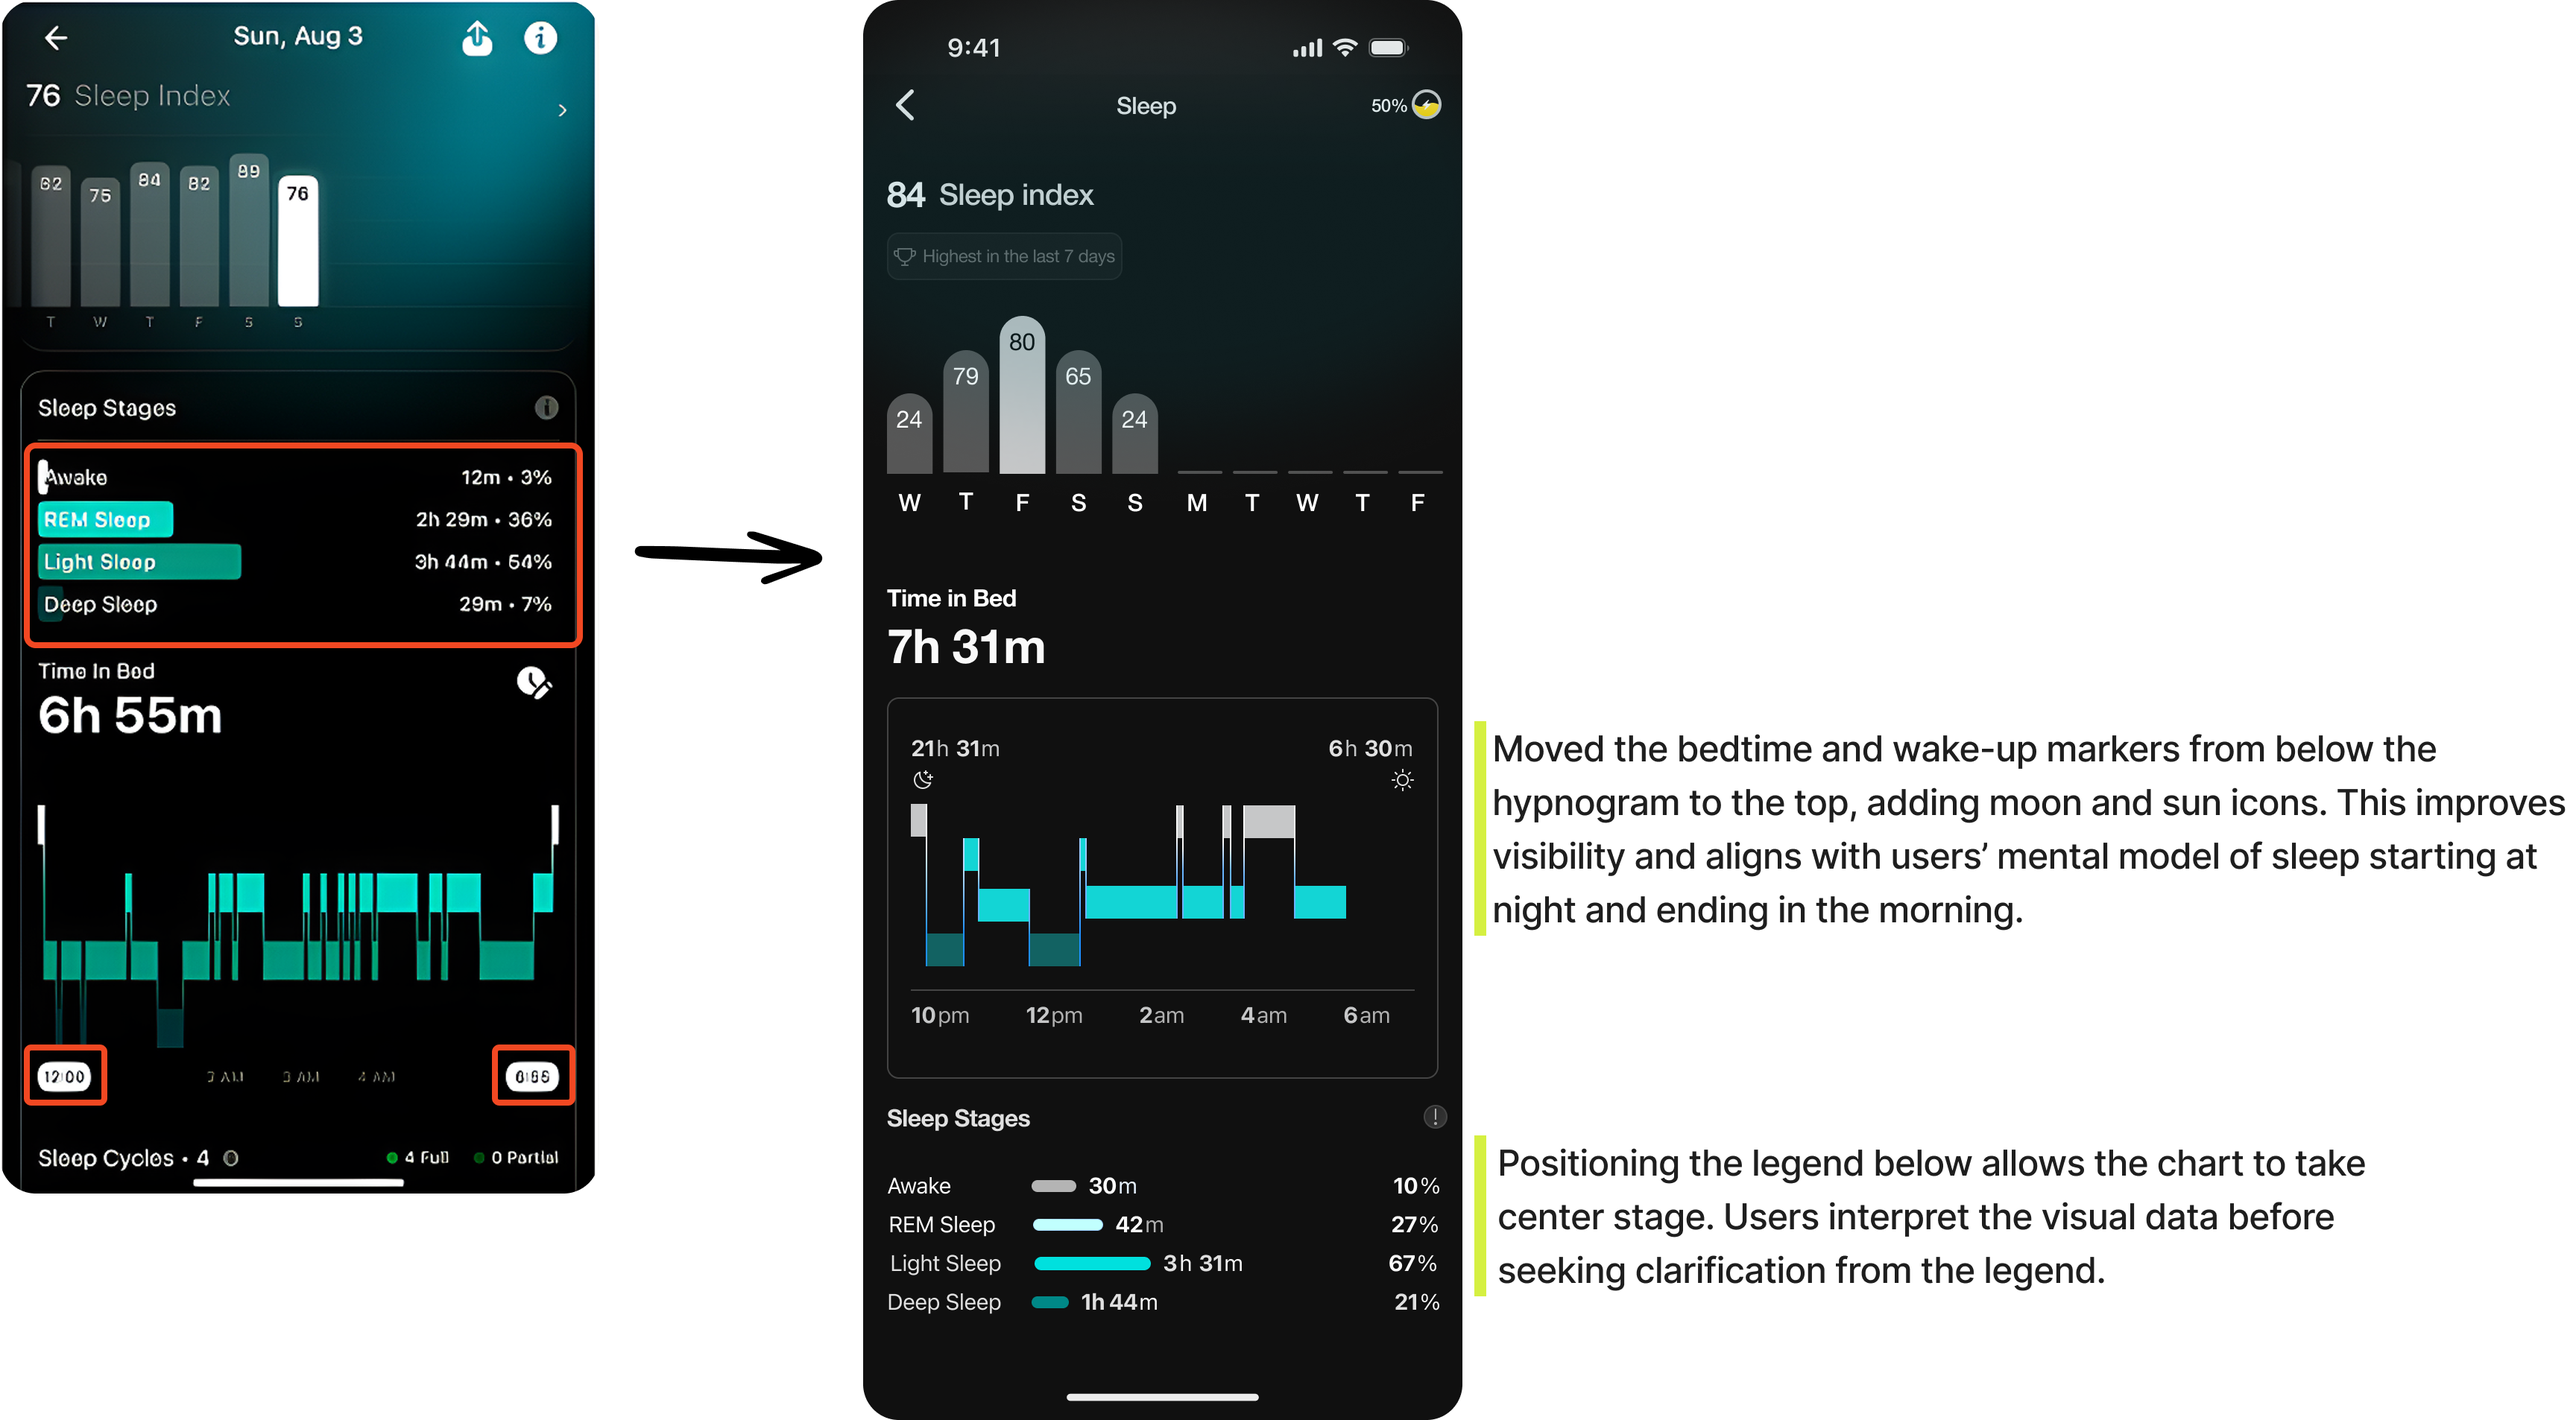
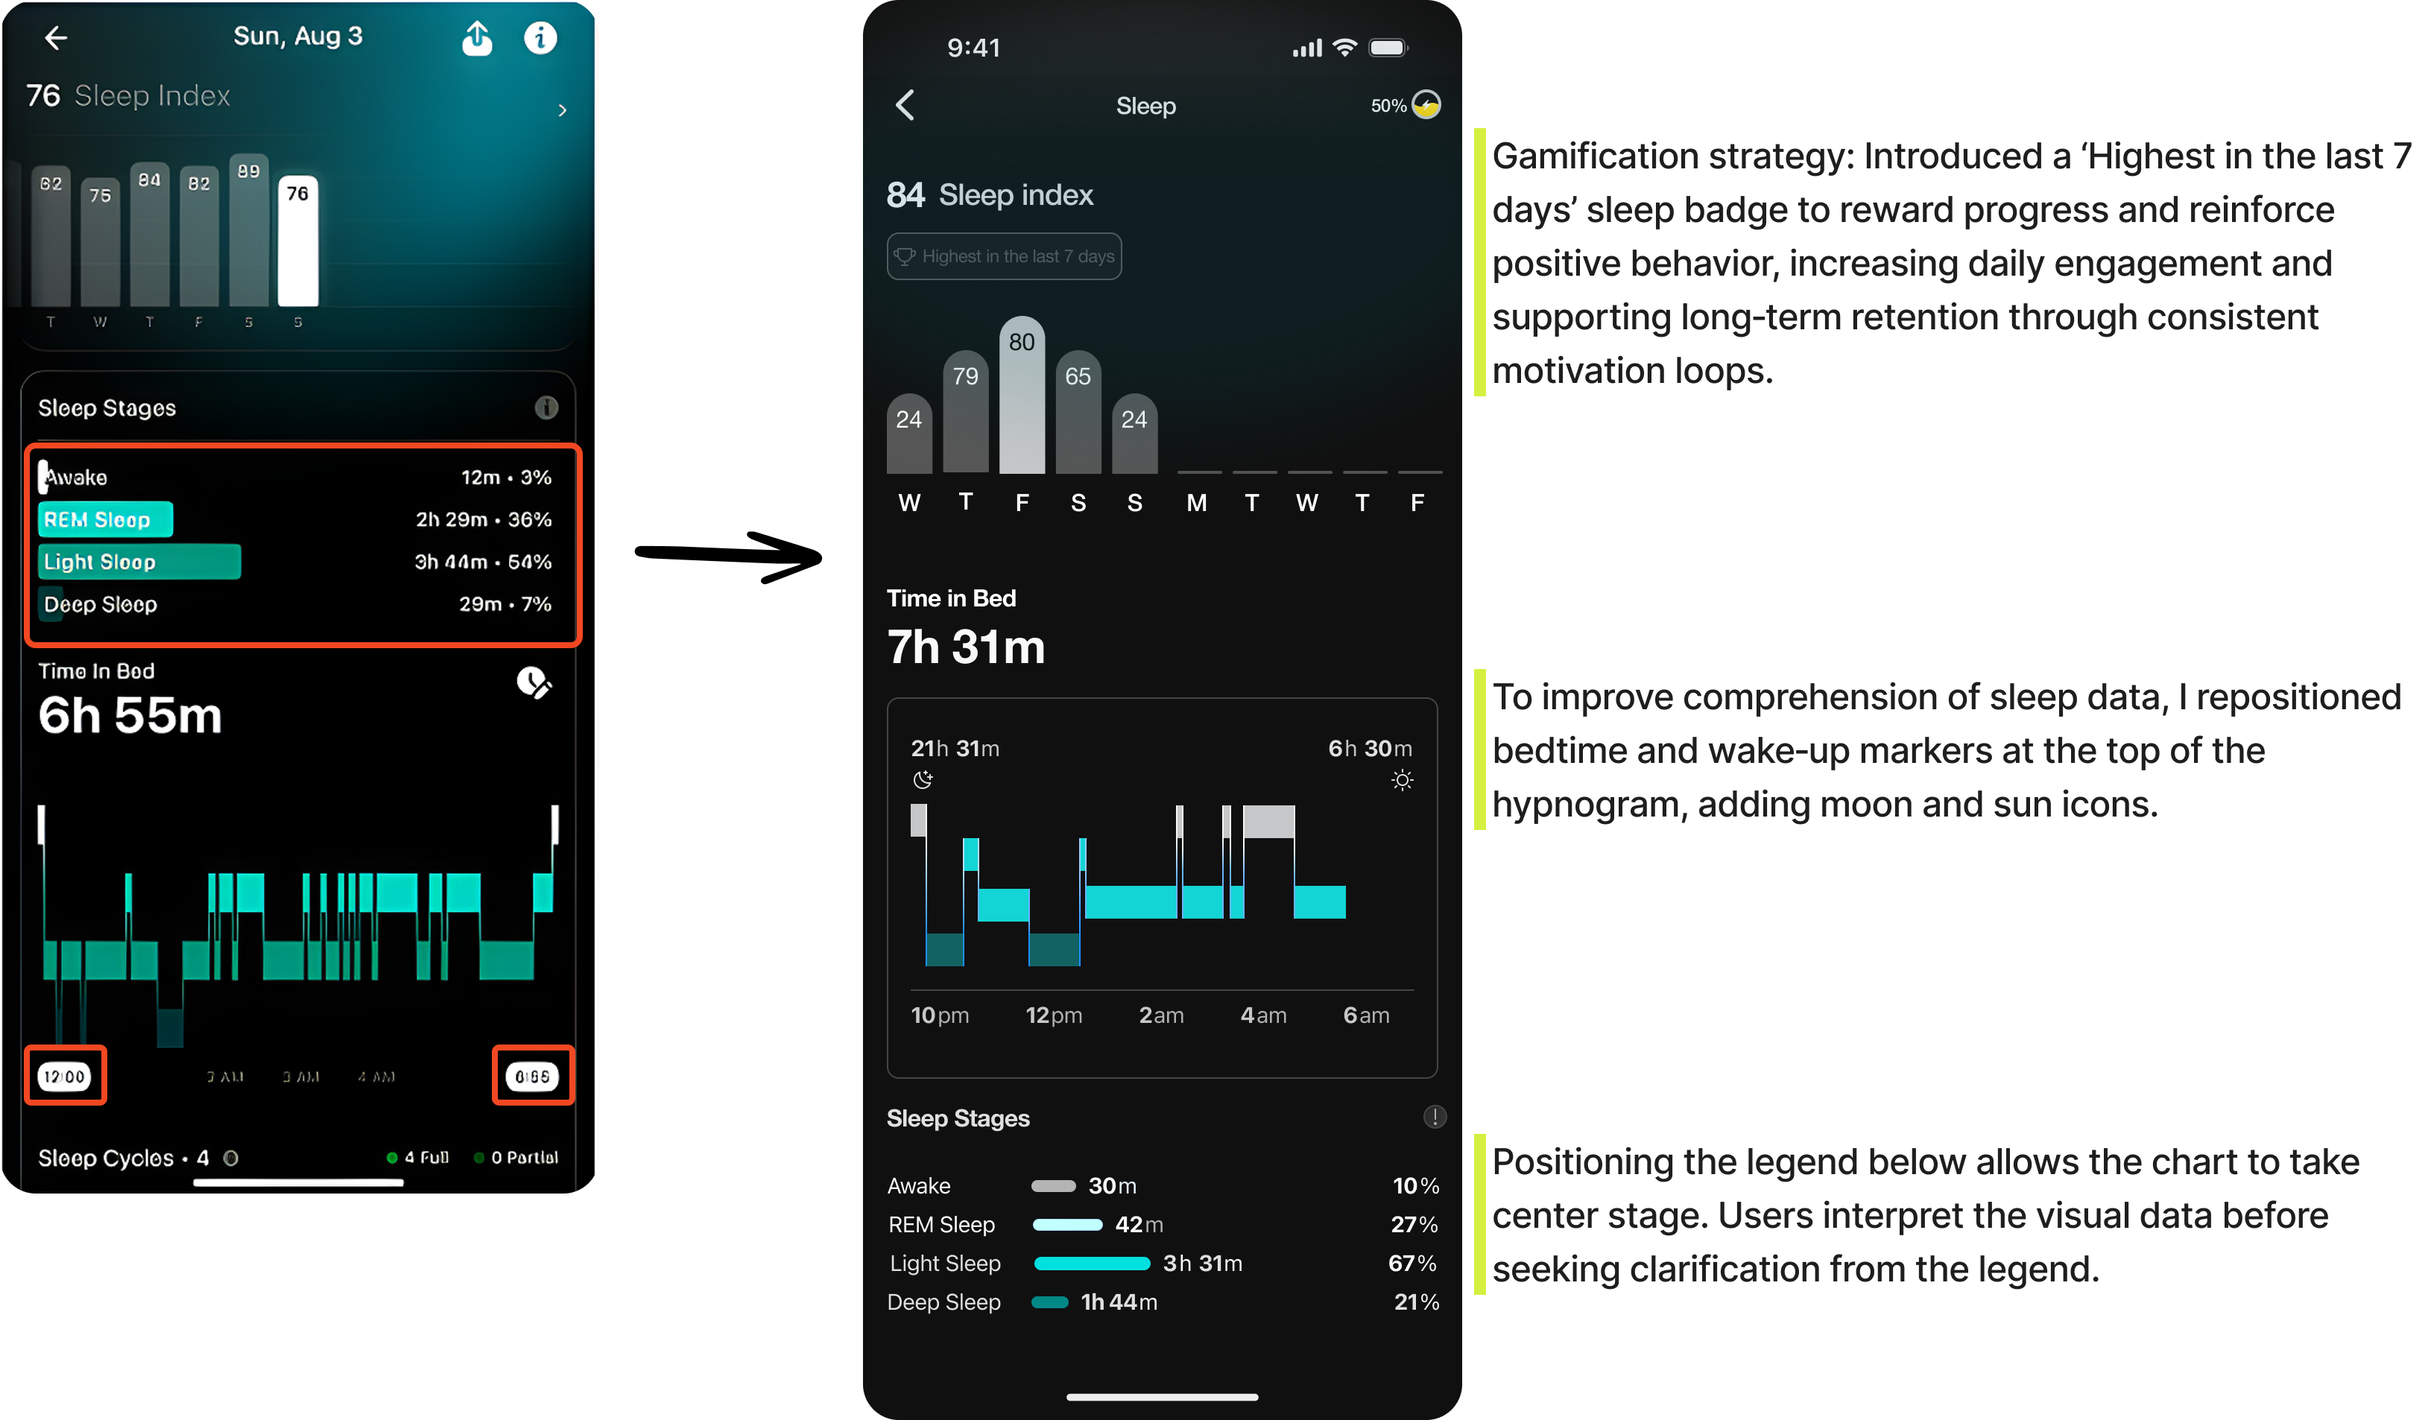
ultrahuman

diff --git a/about.css b/about.css
@@ -1,3 +1,46 @@
+:root {
+  --font-title: 'Unbounded', sans-serif;
+  --font-body: 'inter', sans-serif;
+  --shadow-color: rgba(0, 0, 0, 0.1);
+  --blue-100: #f5f0ff;
+  --blue-200: #ede5ff;
+  --blue-300: #daccff;
+  --blue-400: #b8a0f7;
+  --blue-500: #7242f0;
+  --blue-500-hover: #6a13ec;
+  --blue-500-active: #5c00d8;
+  --blue-600: #6A13EC;
+  --blue-800: #2e0066;
+  --blue-grey-50: #f7f8fa;
+  --blue-grey-100: #f6f7f9;
+  --blue-grey-200: #f3f5f8;
+  --blue-grey-300: #e5e8f0;
+  --blue-grey-400: #d8dae2;
+  --blue-grey-500: #afb6ca;
+  --blue-grey-600: #697694;
+  --blue-grey-700: #373e55;
+  --blue-grey-900: #212430;
+  --complementaryslipt1-100: #Faf0c4;
+  --complementaryslipt1-200: #F8e8a8;
+  --complementaryslipt1-300: #F5de80;
+  --complementaryslipt1-400: #F3d767;
+  --complementaryslipt1-500: #F0cd41;
+  --complementaryslipt1-600: #dabb3b;
+  --complementaryslipt2-700: #aa922e;
+  --complementaryslipt2-200: #ecf8a8;
+  --complementaryslipt2-300: #e3f580;
+  --complementaryslipt2-400: #ddf367;
+  --complementaryslipt2-500: #D5F041;
+  --complementaryslipt1-600: #c2da3b;
+  --space-xxl: 6rem;     /* 96px */
+  --space-xl: 5rem;      /* 80px */
+  --space-lg: 3.5rem;    /* 56px */
+  --space-md: 2rem;      /* 32px */
+  --space-ms: 1.5rem;    /* 24px */
+  --space-sm: 1rem;      /* 16px */
+  --space-xs: 0.75rem;   /* 12px */
+}
+
 * {
     box-sizing: border-box;
     margin: 0;
@@ -32,6 +75,10 @@ header {
     transition: all 0.8s ease;
 }
 
+section {
+    margin: var(--space-xl) auto;
+    /* padding: 2rem 1rem; */}
+
 body::-webkit-scrollbar {
     width: 8px;
     height: 8px;
@@ -51,30 +98,30 @@ h1, h2, h3 {
 }
 
 h1 {
-    font-size: 3rem;
+    font-size: 2.25rem;
     /* Large and bold for main headings */
-    line-height: 1.2;
-    margin-bottom: 1rem;
+    line-height: 1.1;
+    margin-bottom: 1.25rem;
     letter-spacing: -0.02em;
     /* Slightly tighter for display fonts */
 }
 
 h2 {
-    font-size: 2.25rem;
+    font-size: 1.5rem;
     /* Secondary headings */
-    line-height: 1.3;
+    line-height: 1.2;
     /* margin-top: 2rem; */
-    margin-bottom: 1rem;
-    letter-spacing: -0.01em;
+    margin-bottom: 1.5rem;
+    letter-spacing: -2%;
     /* Slightly tighter for balance */
 }
 
 h3 {
-    font-size: 1.75rem;
+    font-size: 1.25rem;
     /* Tertiary headings */
-    line-height: 1.4;
+    line-height: 1.3;
     margin-top: 1.5rem;
-    margin-bottom: 0.75rem;
+    margin-bottom: 1rem;
     letter-spacing: normal;
     /* Default spacing */
 }
@@ -90,6 +137,7 @@ p {
     color: var(--blue-grey-700);
 }
 
+
 .bullet-point {
     font-family: var(--font-body);
     margin-top: 0;
@@ -97,6 +145,13 @@ p {
     letter-spacing: normal;
     /* Default spacing for readability */
     color: var(--blue-grey-700);
+}
+
+.edu-bullet {
+    margin-top: var(--space-ms);
+    margin-bottom: var(--space-md);
+    line-height: 130%;
+    list-style-type: none;    
 }
 
 .bold-text {
@@ -178,7 +233,7 @@ p {
     text-decoration: none;
     color: var(--blue-grey-700);
     margin-left: 0rem;
-    font-weight: 500;
+    font-weight: 400;
     transition: color 0.3s ease;
 }
 
@@ -227,7 +282,10 @@ p {
 .dropdown {
     position: relative;
     display: inline-block;
+    list-style: none;
 }
+
+
 
 /* Dropdown Content (Hidden by Default) */
 /* sem position o lefet nao funciona */
@@ -244,6 +302,7 @@ p {
     box-shadow: 0px 8px 16px 0px rgba(0, 0, 0, 0.2);
     z-index: 1;
     left: -20px;
+    list-style: none;
 }
 
 /* Links inside the dropdown */
@@ -272,6 +331,8 @@ p {
     color: var(--blue-grey-700);
     display: inline-block;
     transition: transform 0.3s;
+    list-style: none;
+    font-family: var(--font-body);
 }
 
 .dropdown:hover .dropdown-arrow {
@@ -361,6 +422,12 @@ p {
 
 /* About session */
 
+section {
+  /* margin: 3rem auto; */
+  margin: var(--space-xl) auto;
+  /* padding: 0px 16px; */
+}
+
 
 .about-container {
     /* height: 60vh; */
@@ -377,13 +444,22 @@ p {
     overflow: hidden;
 }
 
-
 .about-content {
     width: 55%;
     /* text-align: left; */
     /* padding: 16px 8px; */
     line-height: 140%;
     padding: 1rem 2rem;
+}
+
+.experience-container {
+  margin-top: var(--space-xl);
+  padding: 1rem 2rem;
+  display: flex;
+  justify-content: space-between;
+  align-items: baseline;
+  gap: var(--space-lg);
+  flex-wrap: wrap;
 }
 
 .rectangle-design {

diff --git a/projects/ultrahuman.html b/projects/ultrahuman.html
@@ -280,9 +280,10 @@
               <li><strong>Issue 1: Users skipped or ignored secondary option on the meal list</strong></li>
               <li class="issue-list">Description: During the usability test, participants frequently overlooked secondary options in the meal list, focusing only on the primary choice.</li>
               <li><strong>Issue 2: Difficulty interpreting the term temp. deviation and its graphic.</strong></li>
-              <li class="issue-list">Description: When encountering the “temp. deviation” metric, some users hesitated, expressed confusion about its meaning, and struggled to interpret the associated chart.</li>
+              <li class="issue-list">Description: When encountering the “temp. deviation” metric, 2 participants hesitated, expressed confusion about its meaning, and struggled to interpret the associated chart.</li>
               <!-- <li>In the Glucose Track chart, significant changes in glucose levels are not easily detectable because the color shift is too subtle; a more distinct color transition could improve immediate recognition and action.</li> -->
               <li><strong>Issue 3: Sleep data visualization challenges</strong></li>
+              <li >During the usability test, 3 participants hesitated when reading the sleep stages section, pausing to understand what each color or segment represented and struggling to identify the most important information at a glance.</li>
               <!-- <li>Description: In reviewing sleep data, users had difficulty understanding bedtime and wake-up markers when placed above the hypnogram.</li> -->
             </ul>
           </section>

diff --git a/about.html b/about.html
@@ -36,7 +36,7 @@
           </li>
           <li class="work dropdown">
             Work <span class="dropdown-arrow">></span>
-            <ul style="list-style: none;" class="dropdown-content">
+            <ul class="dropdown-content">
               <li>
               <a href="./projects/spirit.html">Spirit Airlines</a>
               </li>
@@ -54,9 +54,9 @@
     </header>
 
     <main>
-      <div class="about-container">
+      <section class="about-container">
         <div class="about-content">
-          <h2>About me</h2>
+          <h1>About me</h1>
           <ul>
             <li class="bullet-point">
               <span
@@ -99,7 +99,20 @@
         </div>
         <!-- <img class="about-image" src="./assets/about-design.png" alt="image" /> -->
          <img class="about-image" src="/nathaliatroinauxui/assets/linkedin.jpg" alt="about image"/>
-      </div>
+      </section>
+      <!-- <section class="experience-container">
+        <div>
+          <h3>Education</h3>
+        </div>
+        <div>
+          <ul class="edu-bullet">
+            <li class="edu-bullet">Design Circuit Academy | Product Design Program</li>
+            <li class="edu-bullet">Flatiron School | Software Engineering</li>
+            <li class="edu-bullet">Instituto de Administracao Hospitalar e Ciencias da Saude | MBA, Auditing</li>
+            <li class="edu-bullet">Centro Universitario Metodista IPA | BS Nursing</li>
+          </ul>
+        </div>
+      </section> -->
     </main>
     <footer><small>Designed and built by Nathalia Troina</small></footer>
   </body>

diff --git a/projects/cases-style.css b/projects/cases-style.css
@@ -224,7 +224,6 @@ ol li {
   text-decoration: none;
   color: var(--blue-grey-700);
   margin-left: 0rem;
-  font-weight: 500;
   transition: color 0.3s ease;
 
 }
@@ -242,7 +241,6 @@ ol li {
 .about,
 .work,
 .contact {
-  font-weight: 500;
   color: var(--blue-grey-700);
   word-wrap: break-word;
   position: absolute;
@@ -271,7 +269,6 @@ section {
   text-decoration: none;
   color: var(--blue-grey-700);
   margin-left: 0rem;
-  font-weight: 500;
   transition: color 0.3s ease;
 }
 
@@ -325,7 +322,6 @@ section:not(:last-child) {
   text-decoration: none;
   color: var(--blue-grey-700);
   margin-left: 0rem;
-  font-weight: 500;
   transition: color 0.3s ease;
 }
 
@@ -341,7 +337,7 @@ section:not(:last-child) {
 .main-name-header {
   color: var(--blue-grey-500);
   font-size: 24px;
-  font-weight: 700;
+  /* font-weight: 700; */
   word-wrap: break-word;
   word-spacing: 55px;
 }
@@ -396,7 +392,6 @@ section:not(:last-child) {
   margin: 1rem 0;
   font-size: 1.2rem;
   color: var(--blue-grey-200);
-  font-weight: 500;
   transition: color 0.3s ease;
 }
 
@@ -1193,9 +1188,6 @@ footer {
   }
 
 
- width: 35%;
- margin: 0 auto;
-}   */
 
 .framework {
   display: flex;

diff --git a/style.css b/style.css
@@ -200,7 +200,7 @@ section:not(:last-child) {
     text-decoration: none;
     color: var(--blue-grey-700);
     margin-left: 0rem;
-    font-weight: 500;
+    /* font-weight: 500; */
     transition: color 0.3s ease;
 }
 
